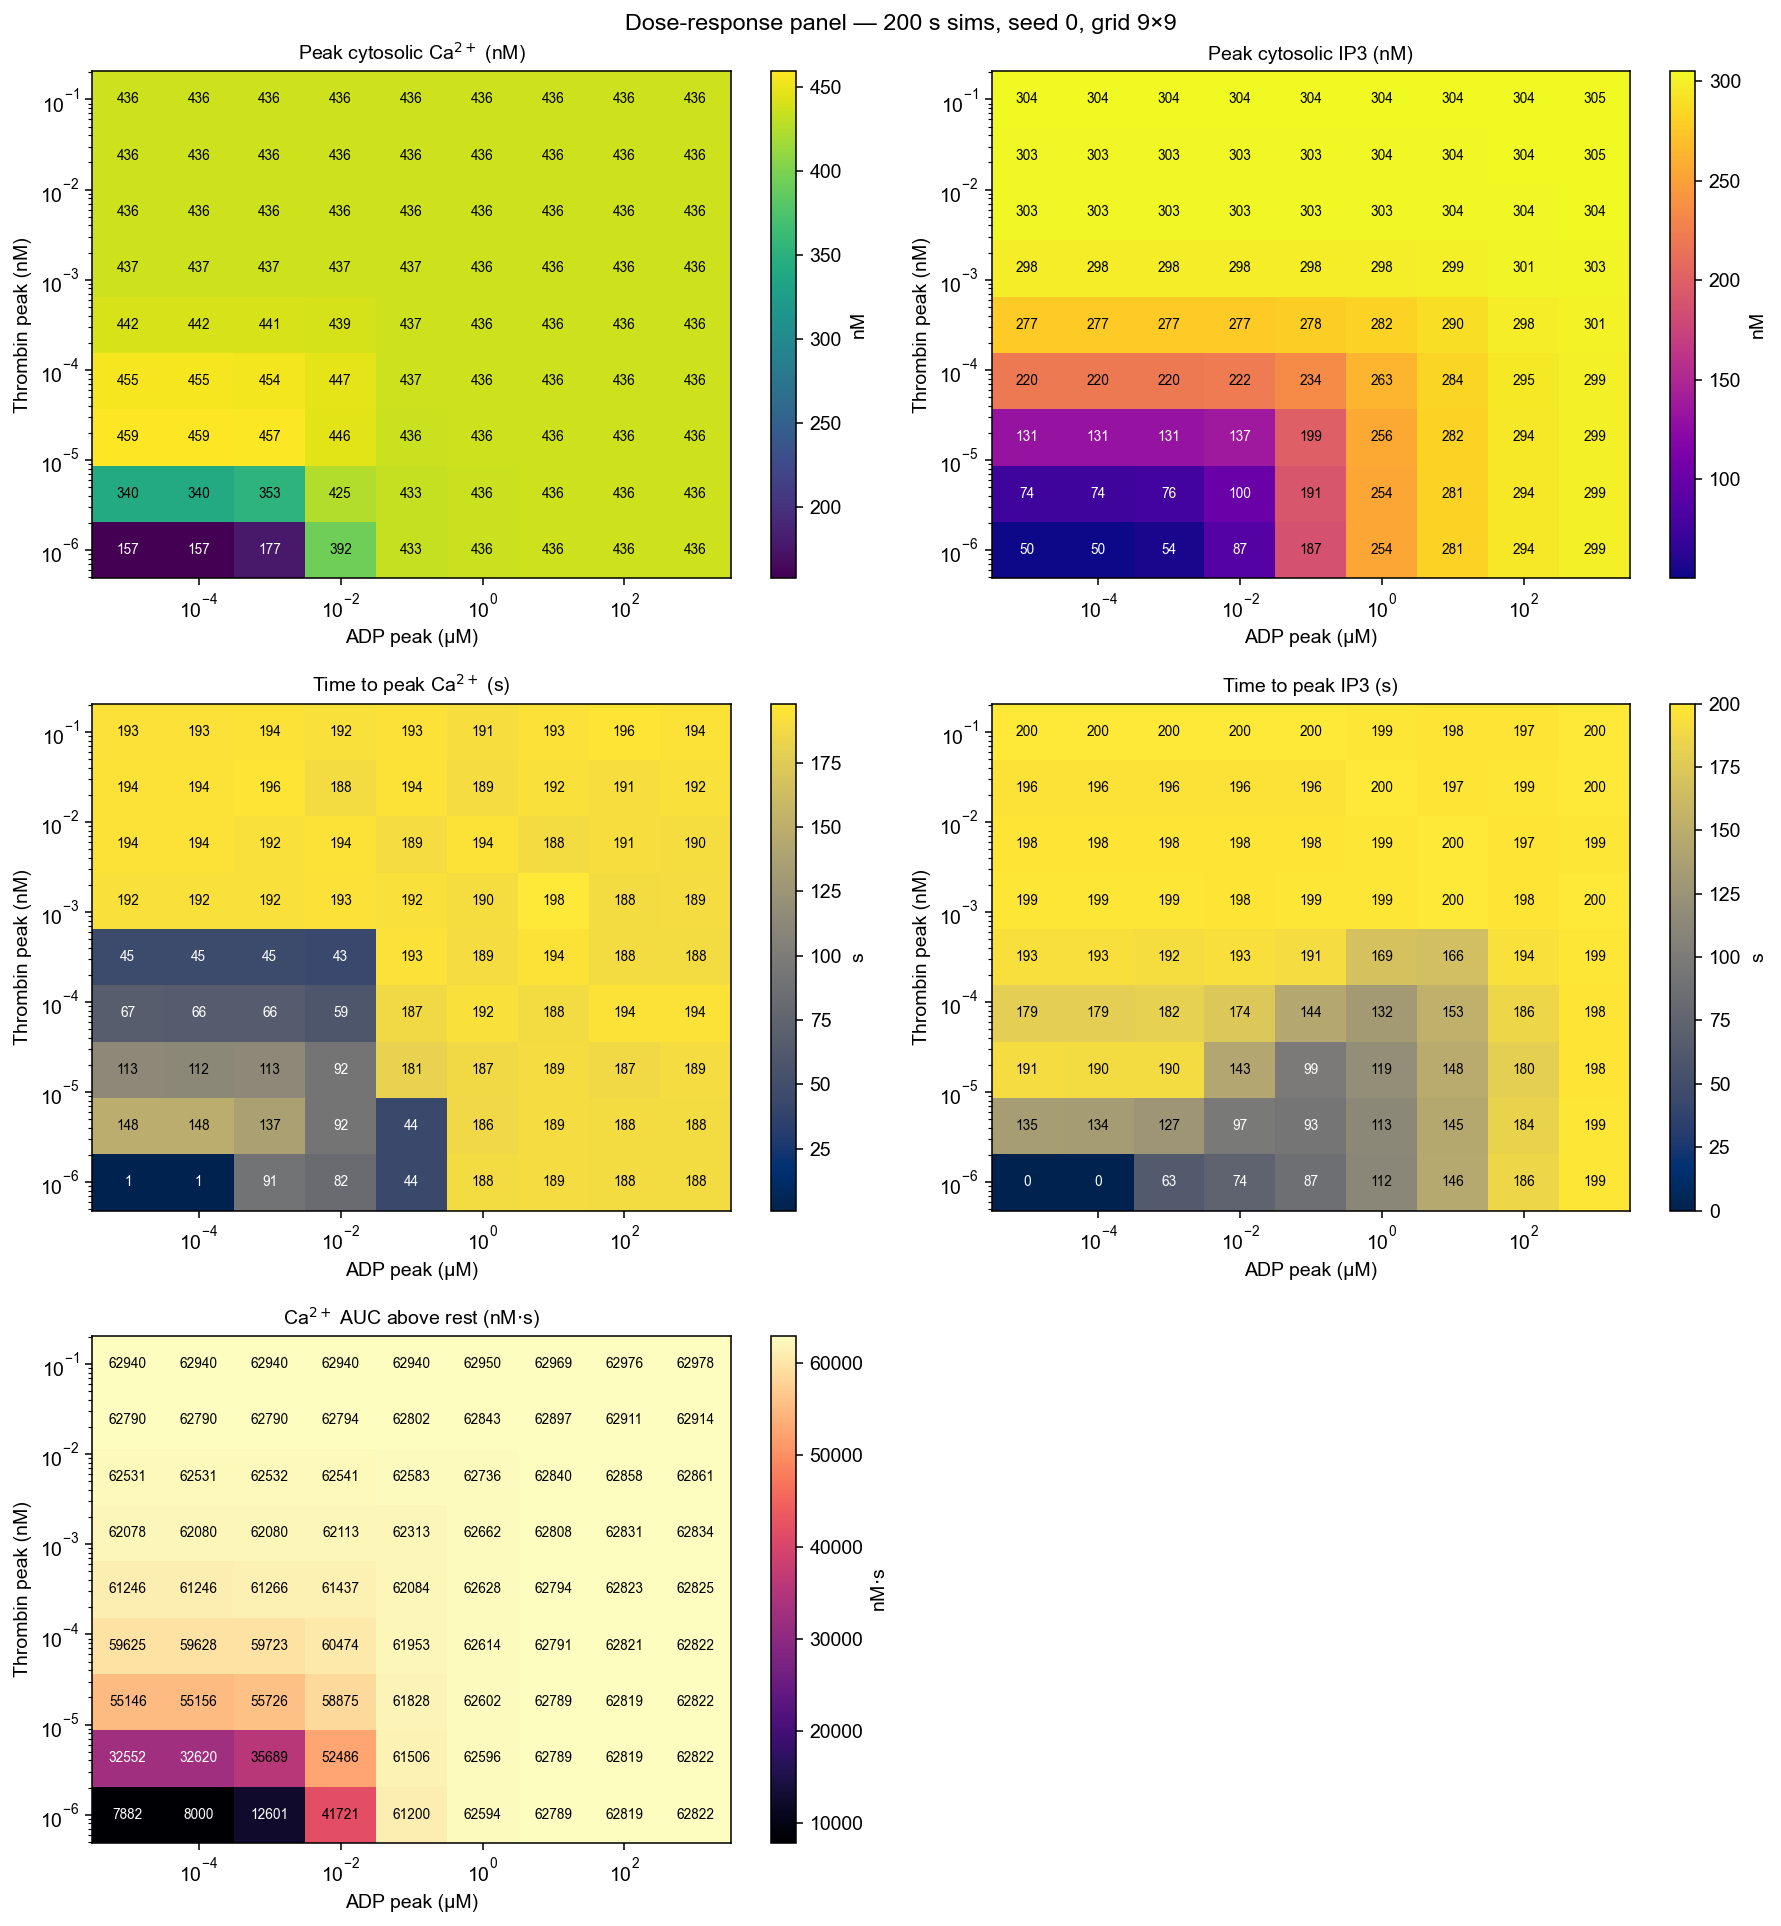
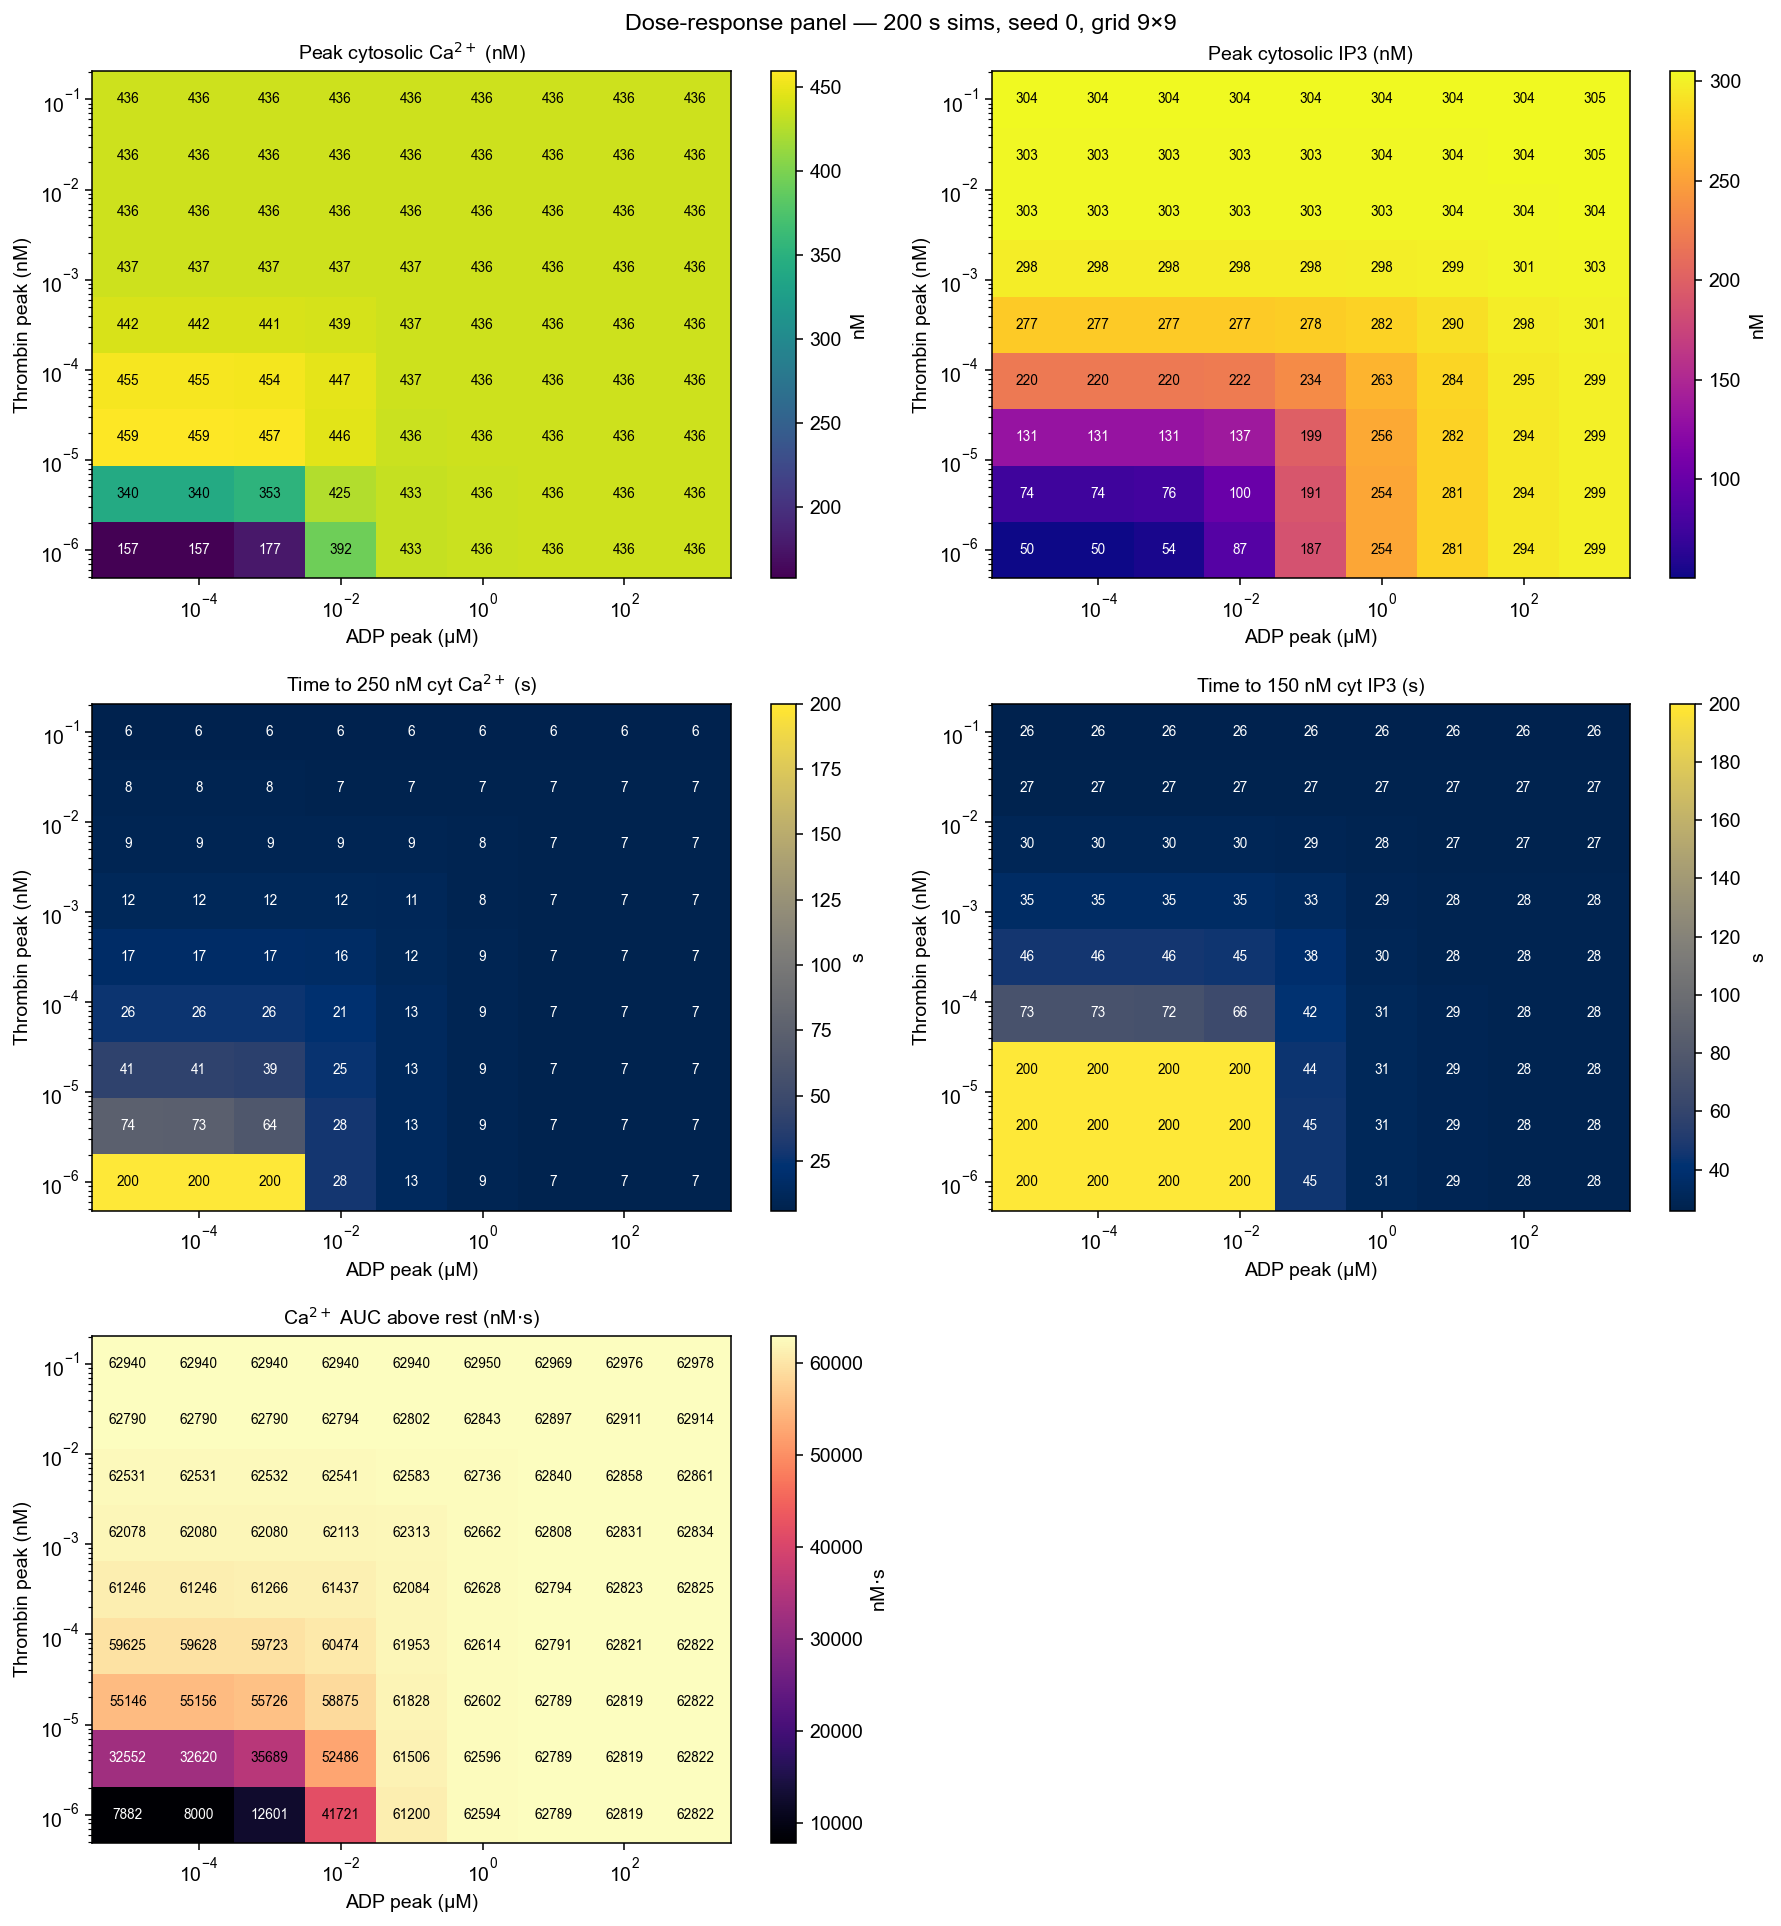
Dose sweep: drop argmax-based time-to-peak, use threshold-crossing rise time
The previous `tpeak_ca_s` and `tpeak_ip3_s` observables (computed via
`t[np.argmax(y)]`) gave misleading results on flat-topped traces: at
high agonist the Ca²⁺ trace rises in ~10 s, plateaus at ~430 nM, then
drifts upward by ~0.1% over the next 180 s as SOCE/NCX equilibrate, so
the global max ends up at the last sample and t_peak reports 190 s.
This made the heatmap look like high ADP gave *slower* responses than
intermediate ADP — biologically wrong, metric artefact.

Replace with `t_to_thresh_ca_s` (first time cyt Ca²⁺ ≥ 250 nM) and
`t_to_thresh_ip3_s` (first time IP3 ≥ 150 nM). Thresholds chosen to
sit between resting baseline and saturated plateau so the metric is
robust to plateau shape. Cells that never crossed the threshold are
right-censored at the sim length (200 s = "did not fire").

After the swap, the rise-time heatmaps are cleanly monotonic in both
agonist axes — high agonist consistently gives faster crossings — and
the panel reads as expected.

Changed region(s): [[0.0309, 0.3427, 0.4323, 0.6542], [0.5559, 0.3427, 0.9264, 0.6542], [0.9573, 0.405, 0.9882, 0.5296]]

diff --git a/runscripts/manual/runDoseSweep.py b/runscripts/manual/runDoseSweep.py
@@ -8,11 +8,14 @@ supplemental). Semantically maps "lower agonist peak ≡ stronger competitive
 antagonism" — no antagonist species, no Kᵢ values.
 
 Observables harvested per cell:
-    peak_ca_nM     peak cytosolic Ca²⁺ (DTS-reservoir-dominated → ~binary)
-    peak_ip3_nM    peak cytosolic IP3 (upstream cascade → graded)
-    tpeak_ca_s     time to peak Ca²⁺
-    tpeak_ip3_s    time to peak IP3
-    auc_ca_nMs     Ca²⁺ AUC above resting baseline (integrated response)
+    peak_ca_nM         peak cytosolic Ca²⁺ (DTS-reservoir-dominated → ~binary)
+    peak_ip3_nM        peak cytosolic IP3 (upstream cascade → graded)
+    t_to_thresh_ca_s   time to first crossing of 250 nM cyt Ca²⁺ (rise time;
+                       cells that never crossed are right-censored at the
+                       sim length, indicating they did not fire)
+    t_to_thresh_ip3_s  time to first crossing of 150 nM cyt IP3 (cascade
+                       rise time, same censoring convention)
+    auc_ca_nMs         Ca²⁺ AUC above resting baseline (integrated response)
 
 Issue #45. Unblocked by #44 — agonist peaks are now live-readable via per-call
 kwargs.
@@ -72,12 +75,30 @@ DEFAULT_THR_RANGE_NM = (0.01, 1.0)
 # ── Observable registry ───────────────────────────────────────────────────
 # (key, human label, unit, cmap). Order controls panel layout.
 OBSERVABLES: tuple[tuple[str, str, str, str], ...] = (
-	('peak_ca_nM',   r'Peak cytosolic Ca$^{2+}$',   'nM',    'viridis'),
-	('peak_ip3_nM',  r'Peak cytosolic IP3',         'nM',    'plasma'),
-	('tpeak_ca_s',   r'Time to peak Ca$^{2+}$',     's',     'cividis'),
-	('tpeak_ip3_s',  r'Time to peak IP3',           's',     'cividis'),
-	('auc_ca_nMs',   r'Ca$^{2+}$ AUC above rest',   r'nM$\cdot$s',  'magma'),
+	('peak_ca_nM',         r'Peak cytosolic Ca$^{2+}$',         'nM',           'viridis'),
+	('peak_ip3_nM',        r'Peak cytosolic IP3',               'nM',           'plasma'),
+	('t_to_thresh_ca_s',   r'Time to 250 nM cyt Ca$^{2+}$',     's',            'cividis'),
+	('t_to_thresh_ip3_s',  r'Time to 150 nM cyt IP3',           's',            'cividis'),
+	('auc_ca_nMs',         r'Ca$^{2+}$ AUC above rest',         r'nM$\cdot$s',  'magma'),
 )
+
+# Thresholds for the rise-time observables. Chosen to sit cleanly between
+# the resting baseline and the saturated plateau, so the metric is well-
+# defined: cells that fire cross during their rise; cells that don't fire
+# are right-censored at the sim length (i.e. value = sim length means
+# "never crossed", not "crossed at the very end").
+_CA_RISE_THRESH_NM  = 250.0   # rest ~100 nM, saturated ~436 nM
+_IP3_RISE_THRESH_NM = 150.0   # rest ~50 nM, saturated ~300 nM
+
+
+def _first_crossing_s(y: np.ndarray, t: np.ndarray, threshold: float) -> float:
+	"""First time `y` reaches `threshold`. If never, return the last
+	sample time (right-censoring convention — caller is expected to know
+	the sim length and treat boundary values as 'did not cross')."""
+	above = y >= threshold
+	if not above.any():
+		return float(t[-1])
+	return float(t[int(above.argmax())])
 
 
 def harvest_cell(simout_dir: str) -> dict[str, float]:
@@ -88,11 +109,11 @@ def harvest_cell(simout_dir: str) -> dict[str, float]:
 	t = np.arange(len(ca), dtype=float)   # 1-s timesteps
 	ca_rest = float(ca[0])
 	return {
-		'peak_ca_nM':   float(ca.max()),
-		'peak_ip3_nM':  float(ip3.max()),
-		'tpeak_ca_s':   float(t[int(np.argmax(ca))]),
-		'tpeak_ip3_s':  float(t[int(np.argmax(ip3))]),
-		'auc_ca_nMs':   float(np.trapz(np.maximum(ca - ca_rest, 0.0), t)),
+		'peak_ca_nM':         float(ca.max()),
+		'peak_ip3_nM':        float(ip3.max()),
+		't_to_thresh_ca_s':   _first_crossing_s(ca,  t, _CA_RISE_THRESH_NM),
+		't_to_thresh_ip3_s':  _first_crossing_s(ip3, t, _IP3_RISE_THRESH_NM),
+		'auc_ca_nMs':         float(np.trapz(np.maximum(ca - ca_rest, 0.0), t)),
 	}
 
 
@@ -414,6 +435,19 @@ _OBSERVABLE_CAPTIONS: dict[str, str] = {
 		r'height. The cell makes a binary spike decision (see peak '
 		r'Ca$^{2+}$) but the integrated dose is graded with agonist '
 		r'input via spike duration.'
+	),
+	't_to_thresh_ca_s': (
+		r'First time cyt [Ca$^{2+}$] crosses 250 nM (threshold sits '
+		r'between $\sim$100 nM rest and the $\sim$436 nM saturated '
+		r'plateau). Captures rise time without the flat-top artefact of '
+		r'an argmax-based metric. Cells that never fired are right-'
+		r'censored at the 200 s sim length, i.e. a value of 200 means '
+		r'"did not cross", not "crossed at the very end".'
+	),
+	't_to_thresh_ip3_s': (
+		r'First time cyt [IP3] crosses 150 nM (between $\sim$50 nM rest '
+		r'and the $\sim$300 nM saturated plateau). Same censoring '
+		r'convention as the Ca$^{2+}$ rise-time observable above.'
 	),
 }
 